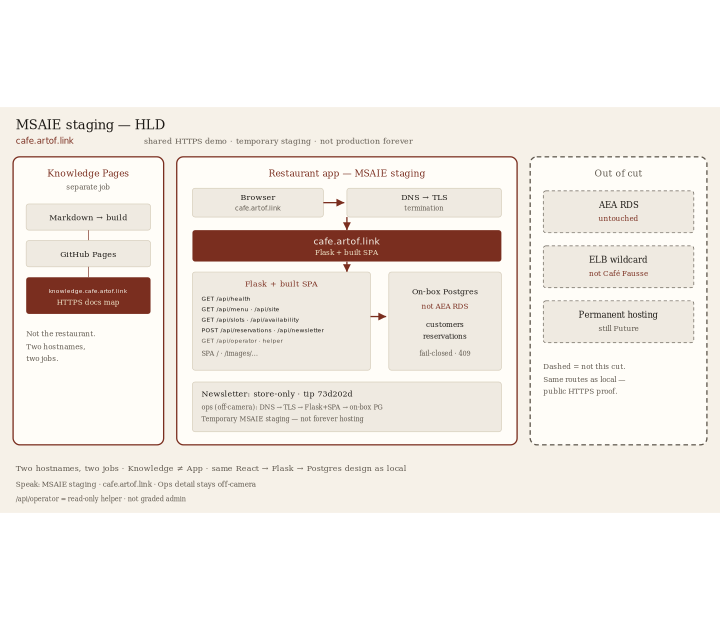
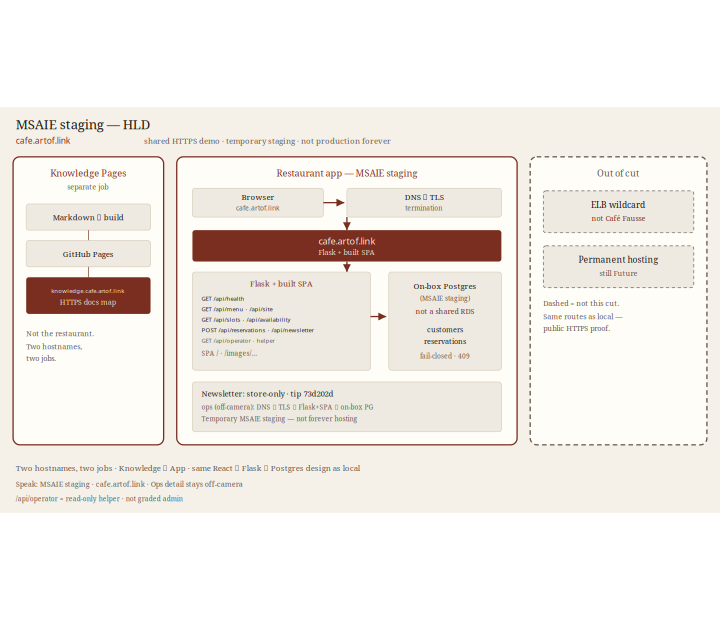
Knowledge: scrub AEA RDS from HLD SVGs
Drop AEA RDS / aea-pilot-postgres labels from Knowledge HLD diagrams.
Use on-box Postgres (MSAIE staging) / not a shared RDS. Soften florist
Path B captions on those student-facing SVGs. Regenerate matching 720
PNGs. Closes #154.

diff --git a/research/daily-briefs/2026-09-06.md b/research/daily-briefs/2026-09-06.md
@@ -1,5 +1,7 @@
 # 2026-09-06
 
+Europe/Berlin. Finding #154: Knowledge — scrub **AEA RDS** / `aea-pilot-postgres` from HLD SVGs. Staging DB wording: **on-box Postgres (MSAIE staging)** / **not a shared RDS**. Assets: [hld-aws-msaie](../../knowledge/assets/hld-aws-msaie.svg) · [hld-aws-staging](../../knowledge/assets/hld-aws-staging.svg) · [hld-as-is](../../knowledge/assets/hld-as-is.svg) · [hld-to-be](../../knowledge/assets/hld-to-be.svg) + matching `*-720.png`. Softened student-facing florist Path B captions on those diagrams. **Out of this PR:** markdown / `build.py` (#150 / PR #155); root README (App); NATURAL scripts; AGENTS florist guardrails. One PR **Closes #154**. Knowledge + brief only. Author does not merge.
+
 Europe/Berlin. Finding #150: Knowledge — scrub **AEA RDS** / `aea-pilot-postgres` from MSAIE-facing pages. Staging DB wording: **on-box Postgres (MSAIE staging)** / **not a shared RDS**. Pages: [stack](../../knowledge/stack.md) · [part3-local-vs-aws](../../knowledge/part3-local-vs-aws.md) · [part3-hld-flow-notes](../../knowledge/part3-hld-flow-notes.md) · technical Part 3 script/VO · [part4-coding-overview](../../knowledge/part4-coding-overview.md) · [parts-345-materials](../../knowledge/parts-345-materials.md) · [handoff mapping](../../knowledge/parts-345-handoff-mapping.md) · [presentation](../../knowledge/presentation.md) · honesty hosting row · [friday-plan](../../knowledge/friday-plan.md) · [future](../../knowledge/future.md) · [aws-schema-map](../../knowledge/future/aws-schema-map.md) AEA lines only. `build.py` lock: require on-box Postgres / not a shared RDS; fail if AEA RDS remains on those pages. **Out of this PR:** HLD SVGs/PNGs (later issue); root README (App #151 / #152); NATURAL scripts (already clean); AGENTS florist guardrails. One PR **Closes #150**. Knowledge + brief only. Author does not merge.
 
 Europe/Berlin. Finding #151: Café Fausse App — root `README.md` only. Staging database = **PostgreSQL on the staging instance (on-box Postgres only)**. Do **not** name AEA RDS or Lily's Florist in the App README. Known hit: probe paragraph `AEA RDS untouched.` Scope narrowed: do **not** edit `AGENTS.md`, `knowledge/*`, SVGs, or `build.py`. Knowledge Pages stay [#150](https://github.com/artofdream/aea-interactive-design/issues/150) — do not compete if that PR also edits root README. One PR **Closes #151**. Author does not merge.
